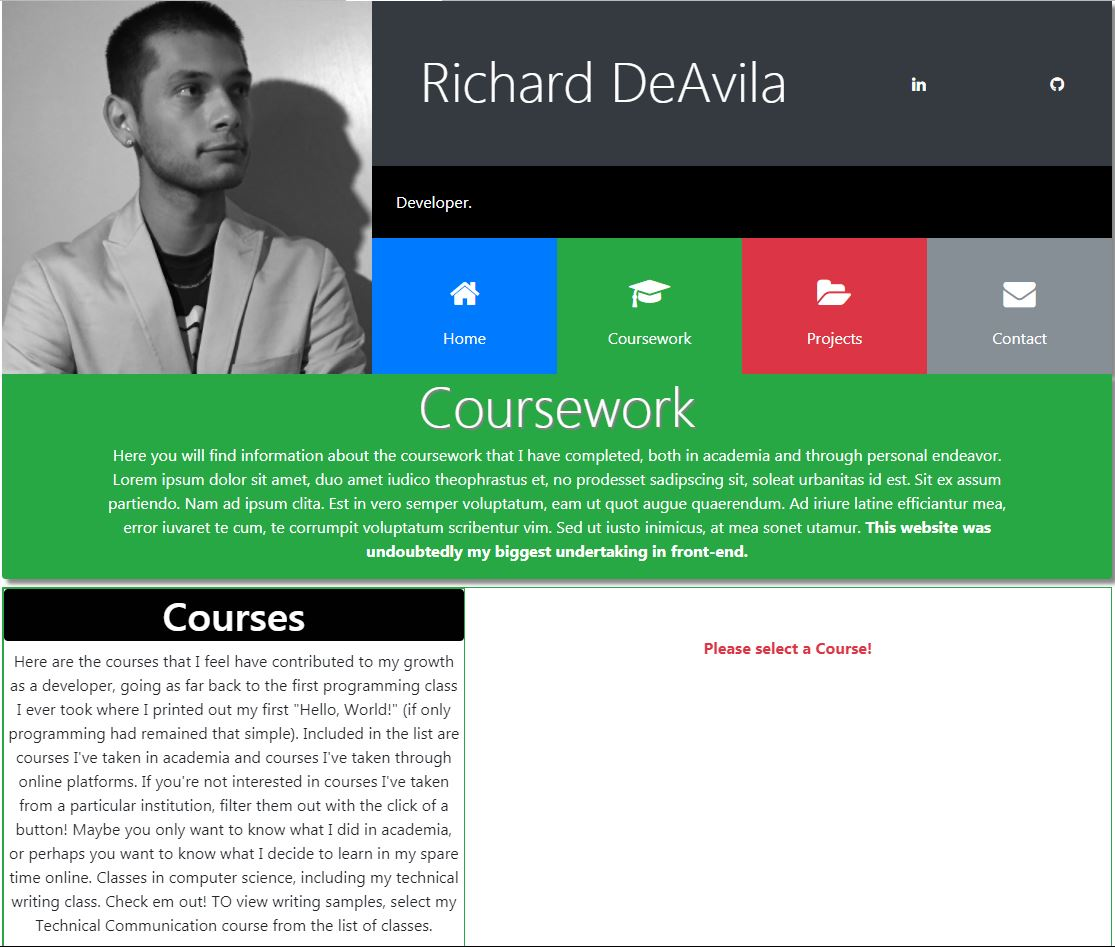
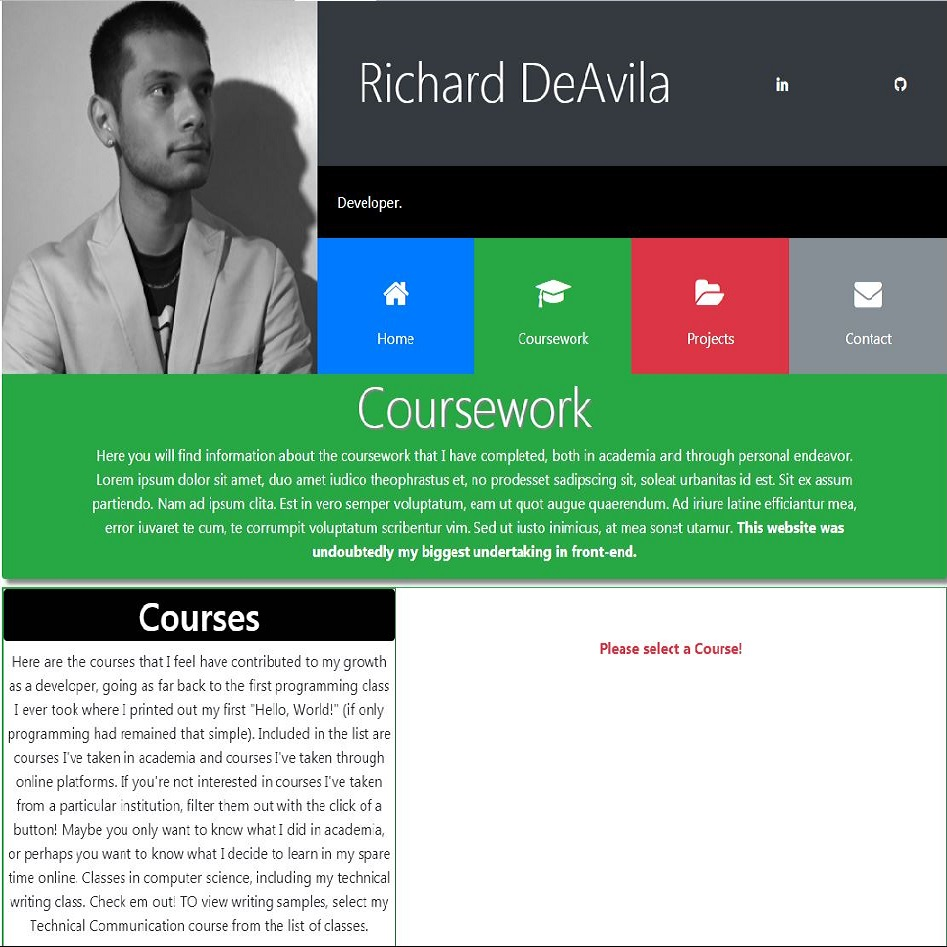
Functional.
Added better shadowing.

diff --git a/app/coursework/coursebody/coursebody.component.html b/app/coursework/coursebody/coursebody.component.html
@@ -1,22 +1,23 @@
 <!--Courses section-->
-<div class="border border-success text-center">
-  <h1 class="bg-black py-1 rounded"> Courses </h1>
-  <p class="px-1 rounded">Here are the courses that I feel have contributed to my growth as a developer, going as far back to the first programming class I ever took where I printed out my first "Hello, World!" (if only programming had remained that simple). Included in the list are courses I've taken in academia and courses I've taken through online platforms. If you're not interested in courses I've taken from a particular institution, filter them out with the click of a button! Maybe you only want to know what I did in academia, or perhaps you want to know what I decide to learn in my spare time online. Classes in computer science, including my technical writing class. Check em out! TO view writing samples, select my Technical Communication course from the list of classes.</p>
+<div class="text-center">
+  <h1 class="py-1 text-success"> Courses </h1>
+  <p class="px-2">Here are the courses that I feel have contributed to my growth as a developer, going as far back to the first programming class I ever took where I printed out my first "Hello, World!" (if only programming had remained that simple). Included in the list are courses I've taken in academia and courses I've taken through online platforms. If you're not interested in courses I've taken from a particular institution, filter them out with the click of a button! Maybe you only want to know what I did in academia, or perhaps you want to know what I decide to learn in my spare time online. Classes in computer science, including my technical writing class. Check em out! TO view writing samples, select my Technical Communication course from the list of classes.</p>
 </div>
 
 
 <!--Buttons section-->
-<div class="row no-gutters justify-content-center border border-success">
+<div class="row no-gutters justify-content-center">
       <span class="btn m-2 pointer"
-            [ngClass]="button['csulb'] ? 'btn-dark' : 'btn-outline-dark'"
+            [ngClass]="button['csulb'] ? 'btn-success' : 'btn-outline-success'"
             (click)="emitButtonClick('csulb')"
       >CSULB</span>
   <span class="btn  m-2 pointer"
-        [ngClass]="button['udemy'] ? 'btn-dark' : 'btn-outline-dark'"
+        [ngClass]="button['udemy'] ? 'btn-success' : 'btn-outline-success'"
         (click)="emitButtonClick('udemy')"
   >Udemy</span>
   <span class="btn  m-2 pointer"
-        [ngClass]="button['udacity'] ? 'btn-dark' : 'btn-outline-dark'"
+        [ngClass]="button['udacity'] ? 'btn-success' : 'btn-outline-success'"
         (click)="emitButtonClick('udacity')"
   >Udacity</span>
 </div>
+

diff --git a/app/coursework/coursework.component.html b/app/coursework/coursework.component.html
@@ -11,7 +11,7 @@ some spacing when the screen is large-->
 </div>
 
 <!--the row containing the courselist AND the course details-->
-<div class="row no-gutters border border-success animated" [ngClass]="change ? 'fadeIn': 'fadeOut'">
+<div class="row no-gutters animated rounded box-shadow" [ngClass]="change ? 'fadeIn': 'fadeOut'">
 
   <!--The left hand side consisting of the course list and related info. It's lg-5 because
   at medium you want them stacked already-->
@@ -21,9 +21,9 @@ some spacing when the screen is large-->
 </div>
   <!--the Right hand side. If nothing is selected, display a request to select
     Also, if nothing is selected align that text to the center-->
-  <div class="col-lg-7 text-center" style="min-height: 250px;">
+  <div class="col-lg-7 text-center" style="min-height: 400px;">
     <app-coursedetail *ngIf="selectedCourse; else infoText" [detailCourse]="selectedCourse"></app-coursedetail>
-    <ng-template #infoText><p class="font-weight-bold text-danger pt-5">Please select a Course!</p></ng-template>
+    <ng-template #infoText><p class="font-weight-bold pt-5">Select a course!</p></ng-template>
 
 
   </div>

diff --git a/app/coursework/coursedetail/coursedetail.component.html b/app/coursework/coursedetail/coursedetail.component.html
@@ -1,4 +1,4 @@
-<div class="card border border-primary" style="height: 100%;">
+<div class="card" style="height: 100%;">
   <div class="card-header">
     <h3>{{detailCourse.name}}</h3>
     <small class="text-muted text-uppercase">{{detailCourse.provider}}</small>
@@ -21,7 +21,7 @@
 
 
   <div class="card-footer">
-    <small *ngIf="detailCourse.url; else CSULBurl"><a [href]="detailCourse.url">More information</a> </small>
+    <small *ngIf="detailCourse.url; else CSULBurl"><a [href]="detailCourse.url">More Information</a> </small>
     <ng-template #CSULBurl>
       <small><a href="http://web.csulb.edu/divisions/aa/catalog/2016-2017/coe/computer_engineering/cecs_ld.html">More Information</a></small>
     </ng-template>

diff --git a/app/projects/projects.component.html b/app/projects/projects.component.html
@@ -8,8 +8,8 @@ some spacing when the screen is large-->
 </div>
 
 <!--the row containing the projects AND the their details-->
-<div class="row no-gutters border border-danger animated justify-content-between" [ngClass]="change ? 'fadeIn': 'fadeOut'">
-  <div class="col-md-12 col-lg-5" *ngFor="let item of projectsList">
+<div class="row no-gutters animated justify-content-around" [ngClass]="change ? 'fadeIn': 'fadeOut'">
+  <div class="col-md-9 col-lg-5" *ngFor="let item of projectsList">
     <app-project [thisProject]="item"></app-project>
   </div>
 

diff --git a/styles.css b/styles.css
@@ -1,9 +1,13 @@
+p {
+  font-family: "Garamond";
+}
+
 .bg-mid {
   background-color: #d8d8d8;
 }
 
 .box-shadow {
-  box-shadow: 5px 5px 5px #888888;
+  box-shadow: 0px 0px 5px #888888;
 }
 
 .bg-black{
@@ -12,5 +16,15 @@
 }
 
 .add-shadow {
-  text-shadow: 2px 2px grey;
+  text-shadow: 0px 1px grey;
 }
+
+.bg-light-grey {
+  background-color: #e8e8e8;
+}
+
+.underline {
+  text-decoration: underline;
+}
+
+

diff --git a/app/coursework/courselist/courselist.component.html b/app/coursework/courselist/courselist.component.html
@@ -1,5 +1,5 @@
 <!--list div. Will bind the course and the display boolean to the individual courses!-->
-<div class="border border-success">
+<div>
   <ul class="list-group" style="overflow-y: scroll; height: 250px;">
     <app-course *ngFor="let thisCourse of courses" [listCourse]="thisCourse" [displayCourse]="display[thisCourse.provider]"
     (selectCourse)="sendSelectedCourse($event)"></app-course>

diff --git a/app/projects/project/project.component.html b/app/projects/project/project.component.html
@@ -1,4 +1,5 @@
-<div class="card border-primary mb-3 box-shadow text-center">
+<div class="card mb-3 box-shadow text-center rounded">
   <img class="card-img-top" [src]="thisProject.imgPath">
   <h3 class="card-title py-1">{{thisProject.name}}</h3>
+  <p class="card-text">{{thisProject.description}}</p>
 </div>

diff --git a/app/app.component.ts b/app/app.component.ts
@@ -11,6 +11,6 @@ export class AppComponent implements OnInit{
   page: number;
 
   ngOnInit() {
-    this.page = 2;
+    this.page = 3;
   }
 }

diff --git a/app/coursework/coursebody/coursebody.component.css b/app/coursework/coursebody/coursebody.component.css
@@ -1,0 +1,3 @@
+.pointer {
+  cursor: pointer;
+}
